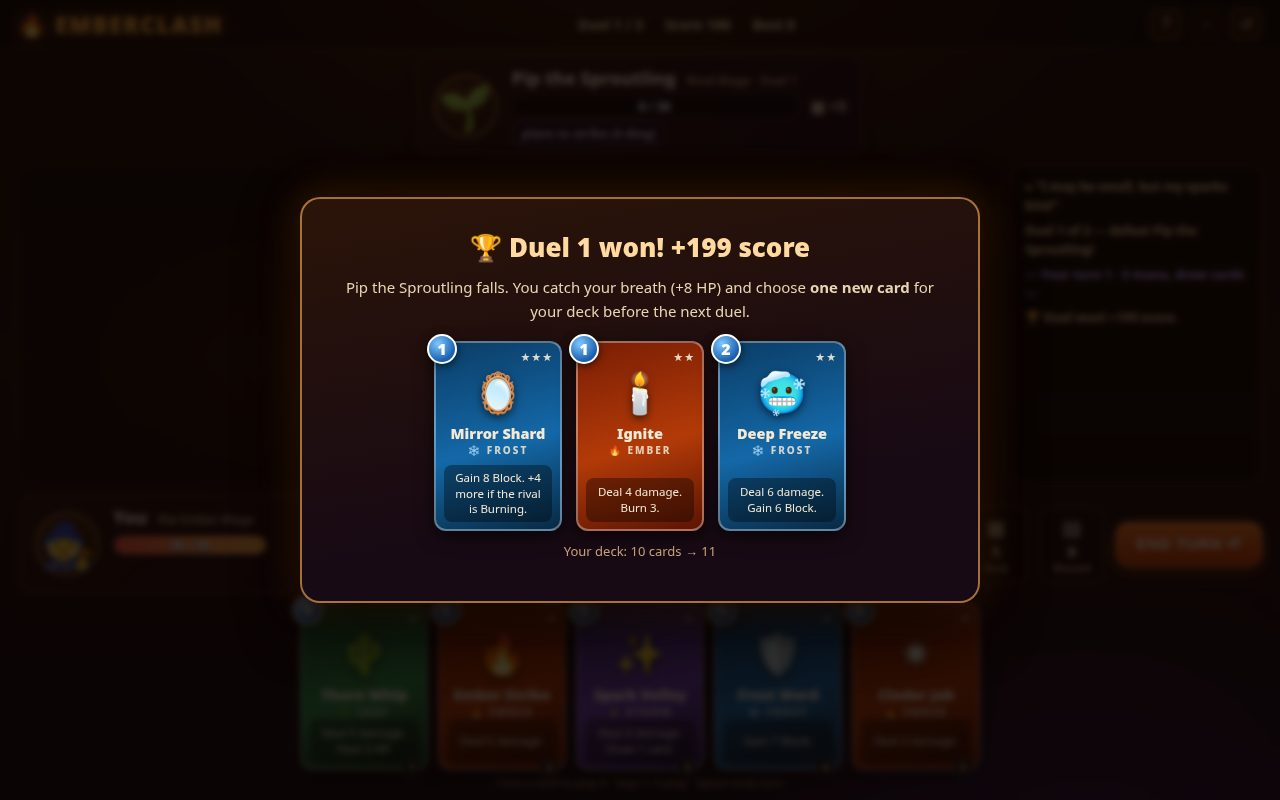
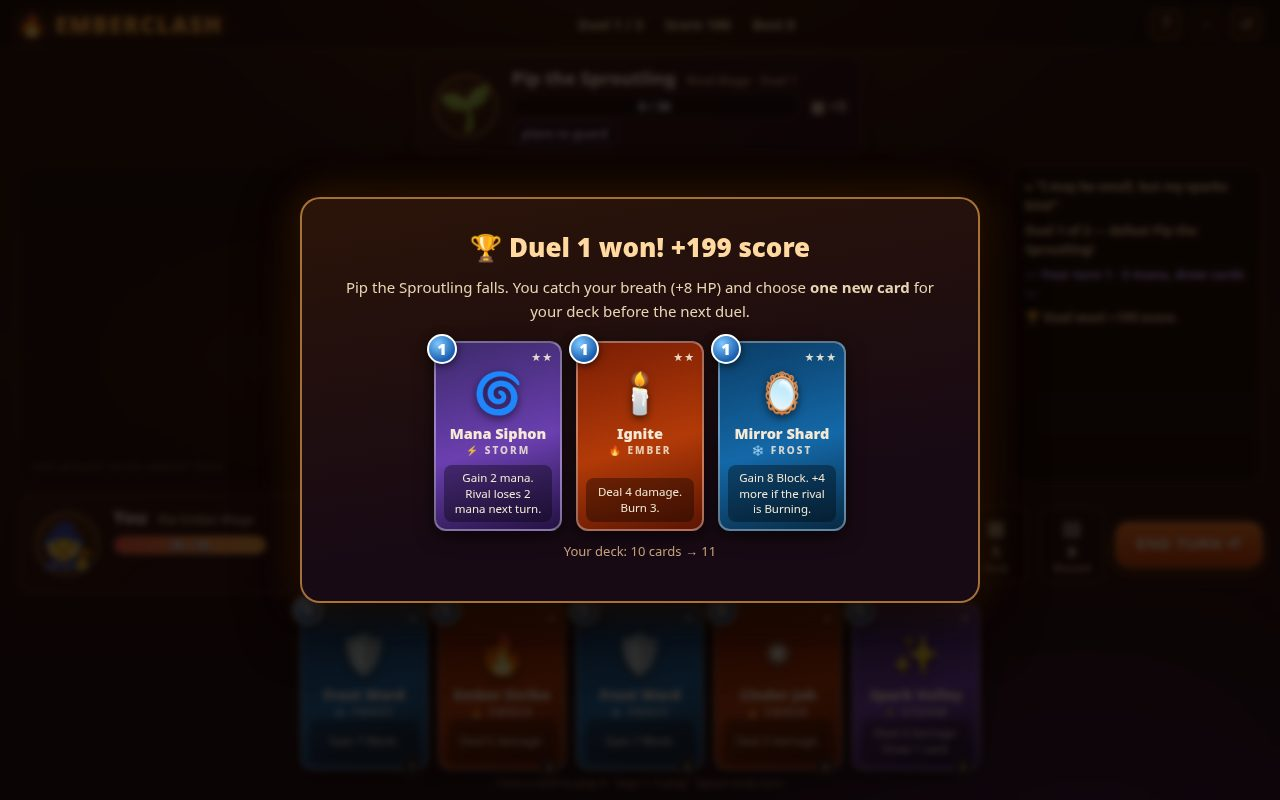
Batch A+B: 24 cards (Mana Siphon, Overload, Blizzard, Phoenix Feather), battlefield history strip, deck/discard viewer, low-HP taunts + danger vignette, play-frame cover, turn counter, persisted mute

diff --git a/game/src/game.js b/game/src/game.js
@@ -13,6 +13,10 @@ const MAX_MANA = 10;
 export class Game {
   constructor() {
     this.rng = mulberry32((Date.now() % 2147483647) || 1);
+    if (localStorage.getItem('emberclash.muted') === '1') {
+      setMuted(true);
+      $('soundBtn').classList.add('off');
+    }
     this.resetRun();
     this.bindButtons();
     this.showTitle();
@@ -35,6 +39,10 @@ export class Game {
     this.foeMax = opp.hp;
     this.foeBlock = 0;
     this.foeBurn = 0;
+    this.foeManaDebt = 0;
+    this.foeTauntedLow = false;
+    this.playerTauntedLow = false;
+    this.lastPlayed = [];
     this.playerHp = this.duelIndex === 0 ? 30 : Math.min(30, this.playerHp + 8);
     this.playerMax = 30;
     this.playerBlock = 0;
@@ -108,7 +116,11 @@ export class Game {
       if (this.checkEnd()) { this.busy = false; return; }
     }
     this.foeBlock = 0;
-    this.foeMana = Math.min(8, 2 + this.turn);
+    this.foeMana = Math.max(0, Math.min(8, 2 + this.turn) - this.foeManaDebt);
+    if (this.foeManaDebt > 0) {
+      this.log('sys', `🌀 ${this.opp.name} loses ${this.foeManaDebt} mana to the siphon.`);
+      this.foeManaDebt = 0;
+    }
     // Rival draws 2, reshuffling its discard pile when its deck runs out.
     for (let i = 0; i < 2; i++) {
       if (this.foeDrawPile.length === 0) {
@@ -125,6 +137,8 @@ export class Game {
       this.foeDiscard.push(card);
       this.foeMana -= card.cost;
       this.showPlayedCard(card, 'foe');
+      this.lastPlayed.unshift({ card, who: 'foe', surge: false });
+      if (this.lastPlayed.length > 3) this.lastPlayed.pop();
       this.applyCardEffect(card, 'foe');
       this.render();
       await this.sleep(750);
@@ -164,6 +178,8 @@ export class Game {
     }
     sfx.playCard();
     this.showPlayedCard(card, 'you', surge);
+    this.lastPlayed.unshift({ card, who: 'you', surge });
+    if (this.lastPlayed.length > 3) this.lastPlayed.pop();
     this.applyCardEffect(card, 'you', surge);
     this.render();
     this.checkEnd();
@@ -178,6 +194,22 @@ export class Game {
       if (isYou) { this.mana += e.mana; this.manaBonus += e.mana; }
       else this.foeMana += e.mana;
       this.log('sys', `${isYou ? 'You gain' : this.opp.name + ' gains'} ${e.mana} mana.`);
+    }
+    if (e.manaDebt) {
+      if (isYou) {
+        this.foeManaDebt += e.manaDebt;
+        this.log('good', `🌀 ${this.opp.name} will lose ${e.manaDebt} mana next turn.`);
+      } else {
+        this.mana = Math.max(0, this.mana - e.manaDebt);
+        this.log('bad', `🌀 ${this.opp.name} siphons ${e.manaDebt} of your mana!`);
+      }
+    }
+    if (e.dmgPerHand) {
+      const dmg = e.dmgPerHand * (isYou ? this.hand.length : this.foeHand.length) * mult;
+      if (isYou) this.applyDamageToFoe(dmg, 'hit');
+      else this.applyDamageToPlayer(dmg, 'hit');
+      this.log(isYou ? 'good' : 'bad', `${isYou ? 'Overload crackles for' : this.opp.name + ' overloads for'} ${dmg} damage.`);
+      sfx.hit();
     }
     if (e.dmg) {
       const dmg = e.dmg * mult;
@@ -367,6 +399,7 @@ export class Game {
   render() {
     // top bar
     $('duelLabel').textContent = `Duel ${Math.min(this.duelIndex + 1, 3)} / 3`;
+    $('turnLabel').textContent = `Turn ${this.turn}`;
     $('scoreLabel').textContent = `Score ${this.score}`;
     $('bestLabel').textContent = `Best ${this.best}`;
     // foe
@@ -410,6 +443,25 @@ export class Game {
       const el = this.cardElement(card, i, false);
       handEl.appendChild(el);
     });
+    // battlefield history: last 3 cards played, newest first
+    const strip = $('historyStrip');
+    strip.innerHTML = '';
+    for (const entry of this.lastPlayed) {
+      const m = document.createElement('div');
+      m.className = `miniCard el-${entry.card.element}${entry.who === 'foe' ? ' foePlayed' : ''}`;
+      m.innerHTML = `<span class="mi">${entry.card.icon}</span>${entry.card.name}<span class="who">${entry.who === 'you' ? 'YOU' : 'RIVAL'}${entry.surge ? ' · SURGE' : ''}</span>`;
+      strip.appendChild(m);
+    }
+    // low-health flavour: rival taunts once when nearly beaten, red vignette when you are
+    if (this.foeHp > 0 && this.foeHp <= this.foeMax * 0.25 && !this.foeTauntedLow) {
+      this.foeTauntedLow = true;
+      this.log('sys', `${this.opp.name}: ${this.opp.lowHpTaunt}`);
+    }
+    if (this.playerHp > 0 && this.playerHp <= this.playerMax * 0.25 && !this.playerTauntedLow) {
+      this.playerTauntedLow = true;
+      this.log('bad', '⚠ You are nearly out of health — guard up or finish this fast!');
+    }
+    $('app').classList.toggle('danger', this.phase === 'player' && this.playerHp > 0 && this.playerHp <= this.playerMax * 0.25);
   }
 
   setChip(el, value, label) {
@@ -525,6 +577,24 @@ export class Game {
     };
   }
 
+  showDeckViewer(which) {
+    const cards = which === 'discard' ? this.discardPile : [...this.drawPile, ...this.hand];
+    const counts = new Map();
+    for (const c of cards) counts.set(c.id, (counts.get(c.id) || 0) + 1);
+    const rows = [...counts.entries()]
+      .map(([id, n]) => {
+        const c = cardById(id);
+        return `<div>${c.icon} <b>${c.name}</b> ×${n} — ${c.cost} mana · ${ELEMENTS[c.element].label} · ${c.text}</div>`;
+      })
+      .join('');
+    this.showOverlay(`
+      <h2>${which === 'discard' ? 'Discard pile' : 'Your deck'} — ${cards.length} card(s)</h2>
+      <div class="deckList">${rows || '<div>Empty.</div>'}</div>
+      <button class="bigbtn" id="closeDeck">BACK TO THE DUEL</button>
+    `);
+    $('closeDeck').onclick = () => this.hideOverlay();
+  }
+
   showHelp() {
     this.showOverlay(`
       <h2>How to play</h2>
@@ -544,11 +614,14 @@ export class Game {
 
   bindButtons() {
     $('endTurnBtn').onclick = () => this.endTurn();
+    $('deckPile').onclick = () => this.showDeckViewer('deck');
+    $('discardPile').onclick = () => this.showDeckViewer('discard');
     $('helpBtn').onclick = () => this.showHelp();
     $('restartBtn').onclick = () => { this.hideOverlay(); this.resetRun(); this.showTitle(); this.render(); };
     $('soundBtn').onclick = () => {
       setMuted(!isMuted());
       $('soundBtn').classList.toggle('off', isMuted());
+      localStorage.setItem('emberclash.muted', isMuted() ? '1' : '0');
     };
     document.addEventListener('keydown', (e) => {
       if (e.key === ' ') { e.preventDefault(); this.endTurn(); }

diff --git a/game/src/cards.js b/game/src/cards.js
@@ -20,14 +20,18 @@ export const CARD_LIBRARY = [
   { id: 'glacial-wall',  name: 'Glacial Wall',   icon: '🧊', cost: 2, element: 'frost', rarity: 'common', text: 'Gain 13 Block.', effect: { block: 13 } },
   { id: 'snowfall',      name: 'Snowfall',       icon: '❄', cost: 1, element: 'frost', rarity: 'rare',   text: 'Gain 5 Block. Draw 1 card.', effect: { block: 5, draw: 1 } },
   { id: 'deep-freeze',   name: 'Deep Freeze',    icon: '🥶', cost: 2, element: 'frost', rarity: 'rare',   text: 'Deal 6 damage. Gain 6 Block.', effect: { dmg: 6, block: 6 } },
+  { id: 'blizzard',      name: 'Blizzard',       icon: '🌪', cost: 3, element: 'frost', rarity: 'epic',   text: 'Deal 6 damage. Gain 10 Block.', effect: { dmg: 6, block: 10 } },
   { id: 'mirror-shard',  name: 'Mirror Shard',   icon: '🪞', cost: 1, element: 'frost', rarity: 'epic',   text: 'Gain 8 Block. +4 more if the rival is Burning.', effect: { block: 8, blockIfBurning: 4 } },
   { id: 'spark-volley',  name: 'Spark Volley',   icon: '✨', cost: 1, element: 'storm', rarity: 'common', text: 'Deal 4 damage. Draw 1 card.', effect: { dmg: 4, draw: 1 } },
   { id: 'lightning-rod', name: 'Lightning Rod',  icon: '🔌', cost: 0, element: 'storm', rarity: 'common', text: 'Gain 2 mana this turn.', effect: { mana: 2 } },
   { id: 'stormcall',     name: 'Stormcall',      icon: '🌩', cost: 2, element: 'storm', rarity: 'rare',   text: 'Deal 8 damage. Draw 1 card.', effect: { dmg: 8, draw: 1 } },
+  { id: 'mana-siphon',   name: 'Mana Siphon',    icon: '🌀', cost: 1, element: 'storm', rarity: 'rare',   text: 'Gain 2 mana. Rival loses 2 mana next turn.', effect: { mana: 2, manaDebt: 2 } },
+  { id: 'overload',      name: 'Overload',       icon: '💥', cost: 2, element: 'storm', rarity: 'rare',   text: 'Deal 3 damage for each card in your hand.', effect: { dmgPerHand: 3 } },
   { id: 'chain-lightning', name: 'Chain Lightning', icon: '⚡', cost: 3, element: 'storm', rarity: 'epic', text: 'Deal 14 damage.', effect: { dmg: 14 } },
   { id: 'leaf-mend',     name: 'Leaf Mend',      icon: '🌱', cost: 1, element: 'leaf',  rarity: 'common', text: 'Heal 6 HP.', effect: { heal: 6 } },
   { id: 'thorn-whip',    name: 'Thorn Whip',     icon: '🌵', cost: 1, element: 'leaf',  rarity: 'common', text: 'Deal 5 damage. Heal 3 HP.', effect: { dmg: 5, heal: 3 } },
   { id: 'bloom',         name: 'Bloom',          icon: '✿', cost: 2, element: 'leaf',  rarity: 'rare',   text: 'Heal 10 HP. Draw 1 card.', effect: { heal: 10, draw: 1 } },
+  { id: 'phoenix-feather', name: 'Phoenix Feather', icon: '🪶', cost: 3, element: 'leaf', rarity: 'epic', text: 'Heal 12 HP. Draw 1 card.', effect: { heal: 12, draw: 1 } },
   { id: 'spore-cloud',   name: 'Spore Cloud',    icon: '☁', cost: 2, element: 'leaf',  rarity: 'rare',   text: 'Deal 5 damage. Burn 5.', effect: { dmg: 5, burn: 5 } },
 ];
 

diff --git a/game/style.css b/game/style.css
@@ -227,7 +227,37 @@ body {
 .elKey .e-ember { background: #7a1e05; } .elKey .e-frost { background: #0b3d66; }
 .elKey .e-storm { background: #3d2a6b; } .elKey .e-leaf { background: #14532a; }
 
-/* tooltip */
+/* history strip: the last cards played stay visible on the battlefield */
+#historyStrip {
+  position: absolute; left: 14px; bottom: 10px; display: flex; gap: 8px; z-index: 4;
+}
+#historyStrip:empty::after {
+  content: "last played cards appear here";
+  font-size: 11px; color: rgba(255,220,170,.3); font-weight: 700; letter-spacing: 1px;
+}
+.miniCard {
+  width: 74px; border-radius: 8px; padding: 6px 5px; text-align: center; color: #fff;
+  border: 1px solid rgba(255,255,255,.4); box-shadow: 0 4px 12px rgba(0,0,0,.55);
+  font-size: 10px; font-weight: 800; line-height: 1.3; opacity: .92;
+}
+.miniCard .mi { font-size: 20px; display: block; }
+.miniCard.foePlayed { filter: grayscale(.35) brightness(.85); }
+.miniCard .who { display: block; font-size: 9px; opacity: .8; letter-spacing: 1px; }
+.pile.clickable { cursor: pointer; }
+.pile.clickable:hover { border-color: #ffb347; background: rgba(80,35,8,.85); }
+
+/* low-health danger vignette */
+#app.danger::after {
+  content: ""; position: absolute; inset: 0; pointer-events: none; z-index: 8;
+  box-shadow: inset 0 0 90px rgba(255, 30, 20, .55);
+  animation: dangerPulse 1.2s infinite;
+}
+@keyframes dangerPulse { 50% { box-shadow: inset 0 0 130px rgba(255, 30, 20, .8); } }
+
+/* deck viewer list */
+.deckList { text-align: left; max-width: 460px; margin: 14px auto 0; font-size: 13.5px; line-height: 1.8; color: #e8d5b5; }
+.deckList b { color: #ffb347; }
+
 #tooltip {
   position: absolute; z-index: 30; max-width: 240px; pointer-events: none;
   background: rgba(10,5,2,.95); border: 1px solid rgba(255,190,100,.6); border-radius: 10px;

diff --git a/game/src/opponents.js b/game/src/opponents.js
@@ -8,6 +8,7 @@ export const OPPONENTS = [
     deck: ['ember-strike', 'cinder-jab', 'cinder-jab', 'cinder-jab',
            'frost-ward', 'frost-ward', 'frost-ward', 'leaf-mend', 'thorn-whip', 'spark-volley'],
     taunt: '“I may be small, but my sparks bite!”',
+    lowHpTaunt: '“H-hey! That actually hurt!”',
     defeat: '“Ouch… okay, you fight like a real mage.”',
   },
   {
@@ -15,8 +16,9 @@ export const OPPONENTS = [
     avatar: '♞', hp: 34, aggression: 0.55, guardBias: 0.35,
     deck: ['ember-strike', 'ember-strike', 'flame-lash', 'flame-lash', 'ignite',
            'frost-ward', 'glacial-wall', 'spark-volley', 'stormcall', 'leaf-mend',
-           'thorn-whip', 'cinder-jab'],
+           'thorn-whip', 'cinder-jab', 'mana-siphon', 'overload'],
     taunt: '“My blade is fire. My patience is not.”',
+    lowHpTaunt: '“You dare scratch the Ember Knight?!”',
     defeat: '“Hmph. The flame favours you today.”',
   },
   {
@@ -24,8 +26,9 @@ export const OPPONENTS = [
     avatar: '♛', hp: 42, aggression: 0.65, guardBias: 0.3,
     deck: ['inferno', 'inferno', 'flame-lash', 'ignite', 'ignite', 'meteor',
            'glacial-wall', 'deep-freeze', 'stormcall', 'chain-lightning',
-           'bloom', 'spore-cloud', 'ember-strike', 'frost-ward'],
+           'bloom', 'spore-cloud', 'ember-strike', 'frost-ward', 'blizzard', 'mana-siphon'],
     taunt: '“Kneel, little spark. The Ashen Throne does not fall.”',
+    lowHpTaunt: '“The throne… cracks? No — NO!”',
     defeat: '“Impossible… take the crown, Ember Mage.”',
   },
 ];

diff --git a/game/index.html b/game/index.html
@@ -16,6 +16,7 @@
     <div class="brand">🔥 EMBERCLASH</div>
     <div class="topinfo">
       <span id="duelLabel">Duel 1 / 3</span>
+      <span id="turnLabel">Turn 1</span>
       <span id="scoreLabel">Score 0</span>
       <span id="bestLabel">Best 0</span>
     </div>
@@ -46,7 +47,7 @@
 
   <!-- Battlefield: played cards + log -->
   <section id="field">
-    <div id="playedZone"></div>
+    <div id="playedZone"><div id="historyStrip" title="Last cards played"></div></div>
     <div id="logBox" aria-live="polite"></div>
   </section>
 
@@ -66,8 +67,8 @@
       <div id="manaBox" title="Ember mana — refills each turn"></div>
     </div>
     <div id="piles">
-      <div id="deckPile" class="pile" title="Draw pile — click to see count">▦ <b id="deckCount">10</b><span>Deck</span></div>
-      <div id="discardPile" class="pile" title="Discard pile">▤ <b id="discardCount">0</b><span>Discard</span></div>
+      <div id="deckPile" class="pile clickable" title="Draw pile — click to view your deck">▦ <b id="deckCount">10</b><span>Deck</span></div>
+      <div id="discardPile" class="pile clickable" title="Discard pile — click to view">▤ <b id="discardCount">0</b><span>Discard</span></div>
       <button id="endTurnBtn" class="endturn">END TURN ⏎</button>
     </div>
   </section>

diff --git a/game/src/main.js b/game/src/main.js
@@ -34,7 +34,11 @@ if (shot) {
     game.manaMax = 5;
     game.mana = 4;
     game.elementsPlayed = ['ember'];
-    game.hand = ['ember-strike', 'ignite', 'frost-ward', 'stormcall', 'thorn-whip', 'lightning-rod'].map(cardById);
+    game.hand = ['ember-strike', 'ignite', 'frost-ward', 'stormcall', 'thorn-whip', 'overload'].map(cardById);
+    game.lastPlayed = [
+      { card: cardById('ember-strike'), who: 'you', surge: true },
+      { card: cardById('frost-ward'), who: 'foe', surge: false },
+    ];
     game.drawPile = game.drawPile.slice(0, 6);
     game.discardPile = ['cinder-jab', 'frost-ward'].map(cardById);
     game.log('sys', '🔥 The duel begins! Play a card to strike first.');

diff --git a/game/src/ai.js b/game/src/ai.js
@@ -21,6 +21,8 @@ function scoreCard(opp, card, ctx) {
   if (e.heal) s += e.heal * (ctx.foeHp < ctx.foeMax * 0.55 ? 1.8 : 0.35);
   if (e.draw) s += 2.5;
   if (e.mana) s += 3.0;
+  if (e.manaDebt) s += 2.5;
+  if (e.dmgPerHand) s += e.dmgPerHand * 4 * opp.aggression;
   if (e.lifesteal) s += 3.5;
   s -= card.cost * 0.9;
   return s + Math.random() * 1.5; // a little unpredictability

diff --git a/README.md b/README.md
@@ -26,7 +26,9 @@ ES modules under `game/`.
   and fades at the start of your next turn; Burn ticks each turn.
 - **20 original cards** across 4 elements — 🔥 Ember (damage),
   ❄ Frost (block), ⚡ Storm (draw & mana), 🌿 Leaf (heal) — in three
-  rarities (★ common, ★★ rare, ★★★ epic).
+  rarities (★ common, ★★ rare, ★★★ epic). New tricks include Mana Siphon
+  (steal the rival's mana), Overload (damage scales with hand size),
+  Blizzard and Phoenix Feather.
 - **Surge** — play two cards of the same element in one turn and the
   second one (costing 1+ mana) hits twice as hard. The rival's intent
   line shows what it plans to do next, so you can read it and answer.
@@ -51,7 +53,7 @@ game/
   index.html             arena layout (top bar, rival, battlefield, hand)
   style.css              ember-arena styling
   src/
-    cards.js             the 20-card library, starter deck, draft pool
+    cards.js             the 24-card library, starter deck, draft pool
     deck.js              shuffle / draw / reshuffle helpers
     opponents.js         the three rival mages and their decks
     ai.js                rival intent + turn planner
@@ -59,7 +61,7 @@ game/
     fx.js                canvas particles + floating damage numbers
     game.js              state, turns, rendering, overlays
     main.js              boot + deterministic ?shot= staging for screenshots
-screenshots/             1-start, 2-play, 3-draft, 4-end (real renders)
+screenshots/             1-play, 2-start, 3-draft, 4-end (real renders; play is the cover)
 shots.json               the four staged screenshot states
 ```
 
@@ -67,7 +69,7 @@ shots.json               the four staged screenshot states
 
 | | |
 |---|---|
-| ![start](screenshots/1-start.jpg) | ![play](screenshots/2-play.jpg) |
+| ![play](screenshots/1-play.jpg) | ![start](screenshots/2-start.jpg) |
 | ![draft](screenshots/3-draft.jpg) | ![end](screenshots/4-end.jpg) |
 
 ## License
